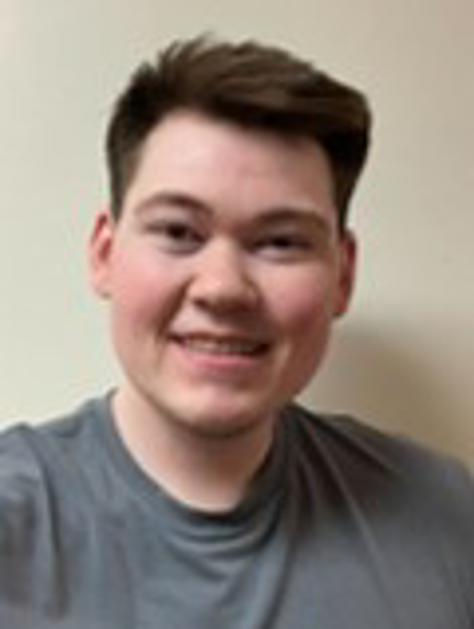
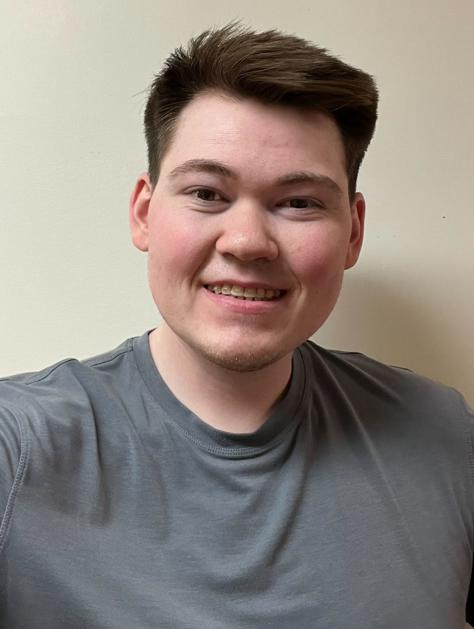
updated font and pics

diff --git a/team.html b/team.html
@@ -235,7 +235,7 @@
                                     <img class="rounded-circle img-fluid d-block mx-auto" src="imgae_2026/Nicole-474x629.jpg"
                                         alt="">
                                     <h3 class='header team-name'>
-                                        Nicole Thompson BSc
+                                        Nicole Thompson <span style="color: black !important;">BSc</span>
                                     </h3>
                                     <p class='about'> Technician & Lab Manager </p>
                                     </h2>
@@ -252,7 +252,7 @@
                                     <img class="rounded-circle img-fluid d-block mx-auto" src="imgae_2026/DarylSiapuatco-474x629.jpg"
                                         alt="">
                                     <h3 class='header team-name'>
-                                        Daryl Siapuatco BSc
+                                        Daryl Siapuatco <span style="color: black !important;">BSc</span>
                                     </h3>
                                     <p class='about'>Technician </p>
 
@@ -264,7 +264,7 @@
                                     <img class="rounded-circle img-fluid d-block mx-auto" src="imgae_2026/Ruixiang-474x629.jpg"
                                         alt="">
                                     <h3 class='header team-name'>
-                                        Blake Zheng MSc
+                                        Blake Zheng <span style="color: black !important;">MSc</span>
                                     </h3>
                                     <p class='about'> Technician </p>
 
@@ -276,7 +276,7 @@
                                     <img class="rounded-circle img-fluid d-block mx-auto" src="imgae_2026/Kajal-474x629.jpg"
                                         alt="">
                                     <h3 class='header team-name'>
-                                        Kajal Kamboj BSc
+                                        Kajal Kamboj <span style="color: black !important;">BSc</span>
                                     </h3>
                                     <p class='about'> PhD candidate </p>
 
@@ -293,12 +293,12 @@
                                     </p>
                                 </div>
                                 <div class="col-lg-4 col-md-4 col-xs-12 text-center mb-4 member red" id='member-6'>
-                                    <img class="rounded-circle img-fluid d-block mx-auto" src="imgae_2026/MyaaGhadie-474x629.png"
+                                    <img class="rounded-circle img-fluid d-block mx-auto" src="imgae_2026/Myaa-474x629.jpg"
                                         alt="">
                                     <h3 class='header team-name'>
-                                        Myaa Ghadie BSc
+                                        Myaa Ghadie <span style="color: black !important;">BSc</span>
                                     </h3>
-                                    <p class='about'> MSc candidate </p>
+                                    <p class='about degree'> MSc candidate </p>
 
                                     <p class='team-p'>
 
@@ -312,7 +312,7 @@
                                     <img class="rounded-circle img-fluid d-block mx-auto" src="imgae_2026/Cameron-474x629.jpg"
                                         alt="">
                                     <h3 class='header team-name'>
-                                        Cameron King BsC
+                                        Cameron King <span style="color: black !important;">BSc</span>
                                     </h3>
                                     <p class='about'> MSc candidate </p>
 
@@ -329,7 +329,7 @@
                                     <img class="rounded-circle img-fluid d-block mx-auto" src="imgae_2026/May-474x629.png"
                                         alt="">
                                     <h3 class='header team-name'>
-                                        May Wong BSc
+                                        May Wong <span style="color: black !important;">BSc</span>
                                     </h3>
                                     <p class='about'> MSc candidate </p>
 

diff --git a/css/style.css b/css/style.css
@@ -182,6 +182,9 @@ a {
 .featured-publication__item-title {
   margin-bottom: 1rem;
 }
+.degree{
+  color:black !important;
+}
 
 .member {
   display: none;
